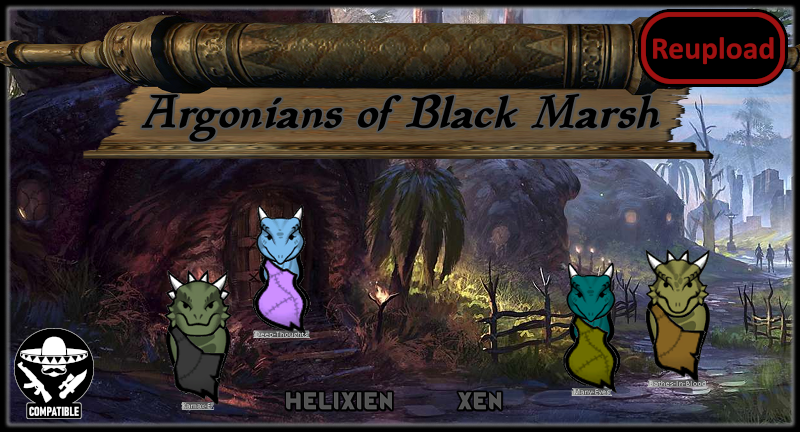
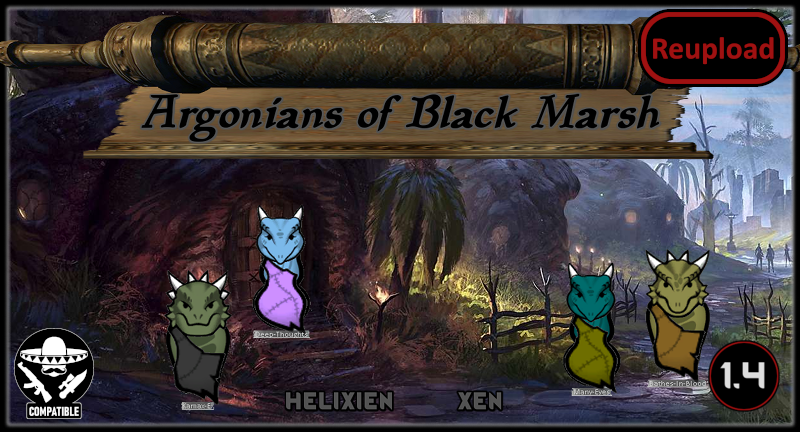
Last update, added end-of-life message

Changed region(s): [[0.875, 0.7824, 1.0, 0.963]]

diff --git a/README.md b/README.md
@@ -17,7 +17,7 @@ https://steamcommunity.com/sharedfiles/filedetails/?id=2018386837
 - https://steamcommunity.com/sharedfiles/filedetails/?id=2454849340]Argonian Leather Thoughts mod by Razza 
 - https://steamcommunity.com/sharedfiles/filedetails/?id=2501584842]Argonians of Blackmarsh Rebalancing by Rk
 
-![Image](https://i.imgur.com/pufA0kM.png)
+![Image](https://i.imgur.com/KFjAmff.png)
 
 
 https://steamcommunity.com/sharedfiles/filedetails/?id=2288125657]![Image](https://i.imgur.com/kNldlMg.png)
@@ -35,12 +35,13 @@ Argonians (in their native tongue of Jel they call themselves the Saxhleel, or P
 
 -  See if the the error persists if you just have this mod and its requirements active.
 -  If not, try adding your other mods until it happens again.
--  Post your error-log using https://steamcommunity.com/workshop/filedetails/?id=818773962]HugsLib and command Ctrl+F12
+-  Post your error-log using https://steamcommunity.com/workshop/filedetails/?id=818773962]HugsLib or the standalone https://steamcommunity.com/sharedfiles/filedetails/?id=2873415404]Uploader and command Ctrl+F12
 -  For best support, please use the Discord-channel for error-reporting.
 -  Do not report errors by making a discussion-thread, I get no notification of that.
 -  If you have the solution for a problem, please post it to the GitHub repository.
+-  Use https://github.com/RimSort/RimSort/releases/latest]RimSort to sort your mods
 
 
 
+https://steamcommunity.com/sharedfiles/filedetails/changelog/2263851875]![Image](https://img.shields.io/github/v/release/emipa606/ArgoniansofBlackmarsh?label=latest%20version&style=plastic&color=9f1111&labelColor=black)
 
-https://steamcommunity.com/sharedfiles/filedetails/changelog/2263851875]Last updated 2023-01-09
